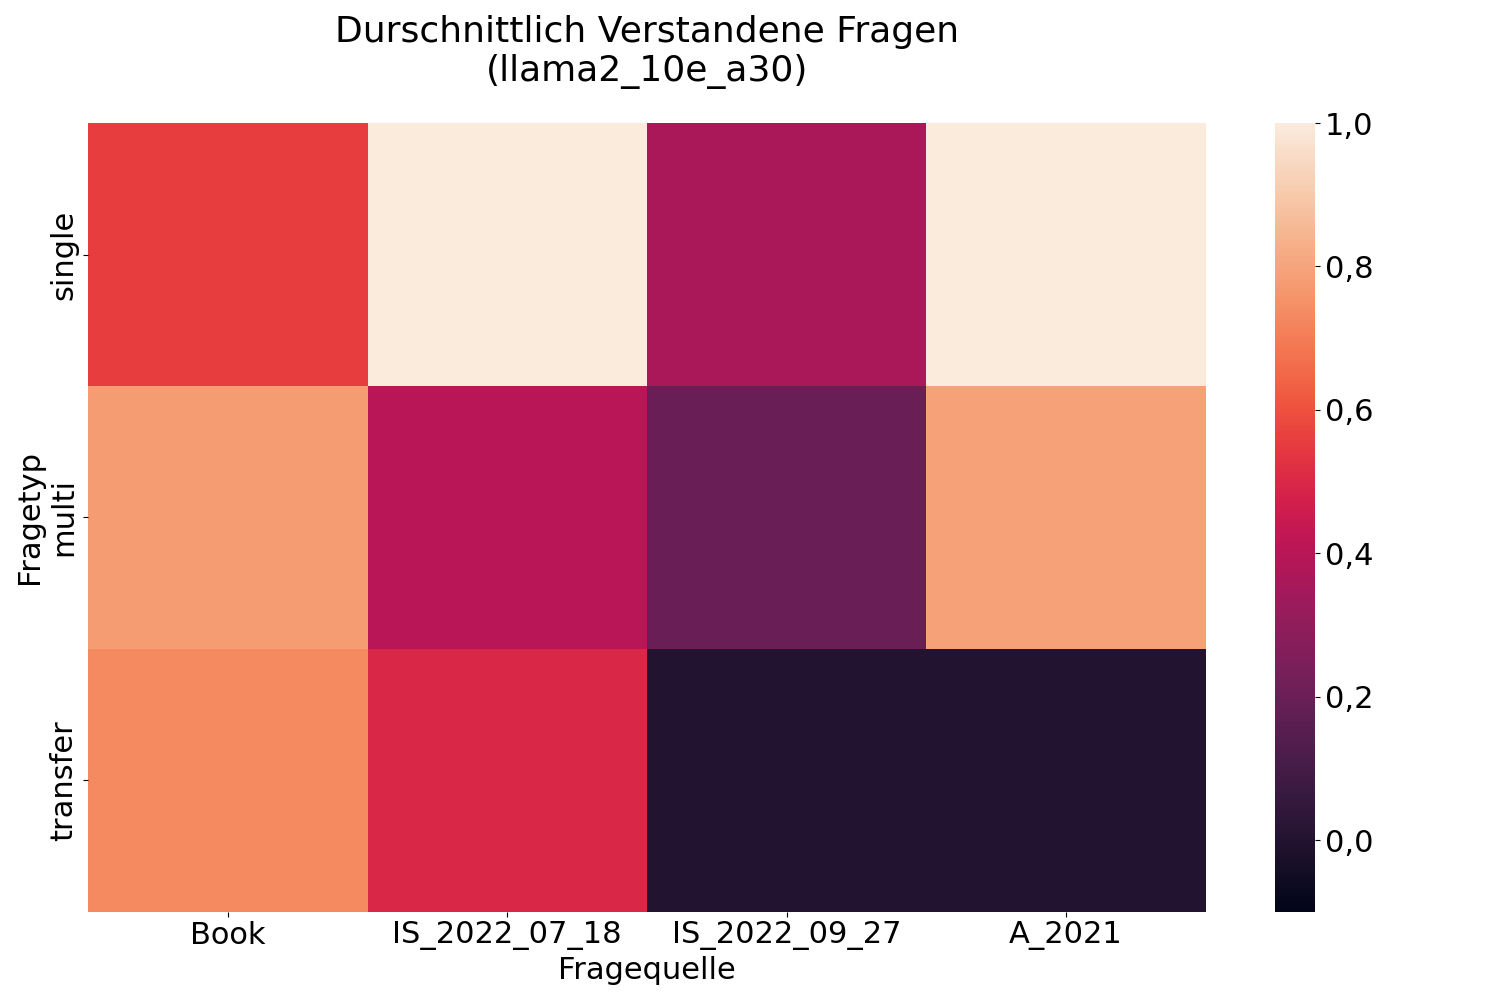
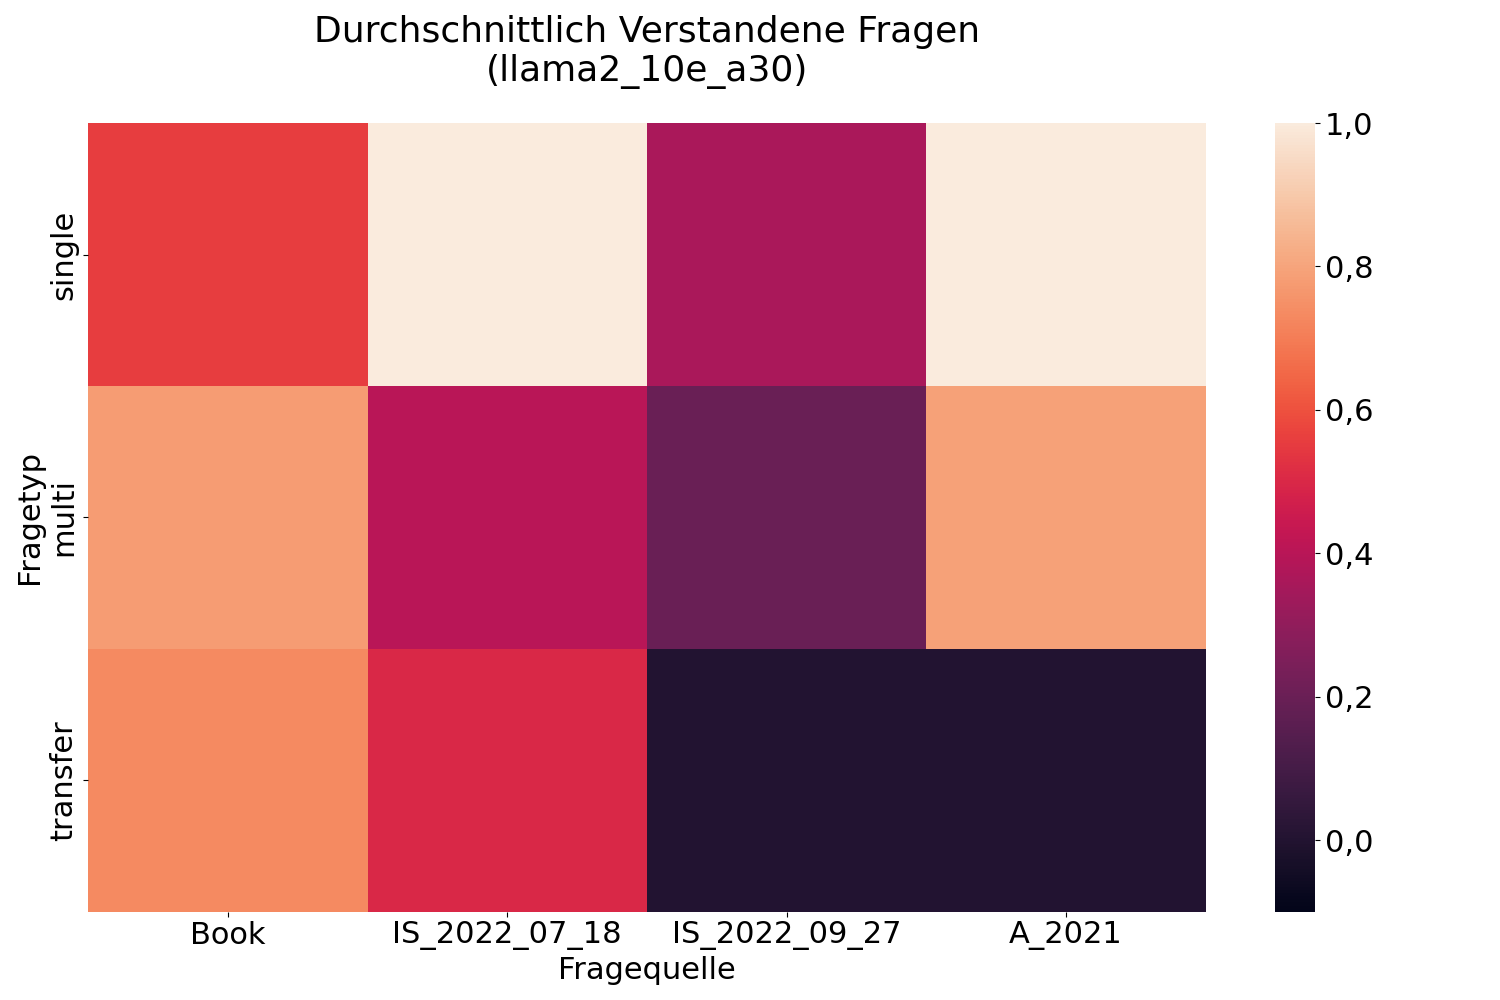
updated graphs

Changed region(s): [[0.2147, 0.0, 0.644, 0.062]]

diff --git a/thesis/Chapters/6Results.tex b/thesis/Chapters/6Results.tex
@@ -22,7 +22,7 @@
         \caption[#3]{#4}\label{#5}
     \end{figure}
 }
-\marginpar[]{Ausführliche Ergebnisse und die verwendeten Datensätze sind unter \url{https://doi.org/10.5281/zenodo.8363502} verfügbar.}
+\marginpar[]{Ausführliche Ergebnisse und die verwendeten Datensätze sind unter \url{https://doi.org/10.5281/zenodo.8363501} verfügbar.}
 In dieser Arbeit wurde die Konzeption und Implementierung eines kontinuierlichen Pre-Trainings von Llama-Modellen beschrieben.
 Diese Modelle wurden anschließend nach den in \cref{sec:approach:comparison} genannten Kriterien Korrektheit, Erklärbarkeit, Fragenverständnis und Robustheit verglichen.
 Die Durchführung dieses Vergleichs ist in \cref{sec:evaluation} beschrieben.
@@ -310,7 +310,7 @@ Dadurch kann das Modell zwar zunächst mehr Wissen abbilden, verliert aber die F
 
 \begin{table}
     \centering
-    \begin{adjustbox}{width=1.2\textwidth,center}
+    \begin{adjustbox}{width=\textwidth,center}
         \begin{tabular}{lllll}
             \toprule
             \textbf{Modell} & \textbf{MakroF1}                   & \textbf{Erklärbarkeit}                      & \textbf{Fragenverständnis}                  & \textbf{Robustheit (Leistungsverlust)}       \\
@@ -324,6 +324,7 @@ Dadurch kann das Modell zwar zunächst mehr Wissen abbilden, verliert aber die F
             \lea{}          & \num{0.3}                          & \textbf{\SI[detect-weight]{85.4}{\percent}} & \textbf{\SI[detect-weight]{72.6}{\percent}} & \SI{46.7}{\percent}                          \\
             \lsa{}          & \textbf{\num[detect-weight]{0.33}} & \SI{82.5}{\percent}                         & \SI{60}{\percent}                          & \SI{60.6}{\percent}                          \\
             \lioa{}         & \num{0.32}                         & \SI{81}{\percent}                           & \SI{55.8}{\percent}                         & \textbf{\SI[detect-weight]{43.8}{\percent}}  \\
+            \bottomrule
         \end{tabular}
     \end{adjustbox}
         \caption[Zusammenfassung der Evaluierungsergebnisse]{Zusammenfassung der Evaluierungsergebnisse. Fettgedruckte Werte stellen die beste Leistung im Kriterium dar. Die Zeilen sind unterteilt in nur evaluierte Modelle und trainierte und evaluierte Modelle. }\label{tab:results:summary}

diff --git a/training/src/06_evaluation_question_understanding_02.py b/training/src/06_evaluation_question_understanding_02.py
@@ -133,7 +133,7 @@ def main():
         heatmap.get_avgvalue_heatmap_total_by_model("avg"),
         "Fragequelle",
         "Fragetyp",
-        "Durschnittlich Verstandene Fragen",
+        "Durchschnittlich Verstandene Fragen",
         os.path.join(args.output, "question_understanding_total_model.png"),
     )
     for model in models:
@@ -141,14 +141,14 @@ def main():
             heatmap.get_heatmap_by_model(model, "avg"),
             "Fragequelle",
             "Fragetyp",
-            f"Durschnittlich Verstandene Fragen ({model})",
+            f"Durchschnittlich Verstandene Fragen ({model})",
             os.path.join(args.output, f"question_understanding_{model}.png"),
         )
     show_heatmap(
         heatmap.get_avgvalue_heatmap_total_by_type("avg"),
         "Fragetyp",
         "Modell",
-        "Durschnittlich Verstandene Fragen",
+        "Durchschnittlich Verstandene Fragen",
         os.path.join(args.output, "question_understanding_total_type.png"),
     )
     for q_type in QuestionType:
@@ -163,14 +163,14 @@ def main():
             heatmap.get_heatmap_by_type(str(q_type), "avg"),
             "Fragequelle",
             "Modell",
-            f"Durschnittlich Verstandene Fragen ({q_type.value})",
+            f"Durchschnittlich Verstandene Fragen ({q_type.value})",
             os.path.join(args.output, f"question_understanding_{q_type}.png"),
         )
     show_heatmap(
         heatmap.get_avgvalue_heatmap_total_by_source("avg"),
         "Fragequelle",
         "Modell",
-        "Durschnittlich Verstandene Fragen",
+        "Durchschnittlich Verstandene Fragen",
         os.path.join(args.output, "question_understanding_total_source.png"),
     )
     for source in QuestionSource:
@@ -185,7 +185,7 @@ def main():
             heatmap.get_heatmap_by_source(str(source), "avg"),
             "Fragetyp",
             "Modell",
-            f"Durschnittlich Verstandene Fragen ({source.value})",
+            f"Durchschnittlich Verstandene Fragen ({source.value})",
             os.path.join(args.output, f"question_understanding_{source}.png"),
         )
 

diff --git a/thesis/Chapters/9Appendix.tex b/thesis/Chapters/9Appendix.tex
@@ -1,5 +1,5 @@
 %*****************************************
-\pdfbookmark[1]{Appendinx}{appendix}
+\pdfbookmark[1]{Appendix}{appendix}
 \chapter*{Appendix}\label{ch:appendix}
 %*****************************************
 \section*{Evaluierungsdatensatz}\label{app:evaldata}
